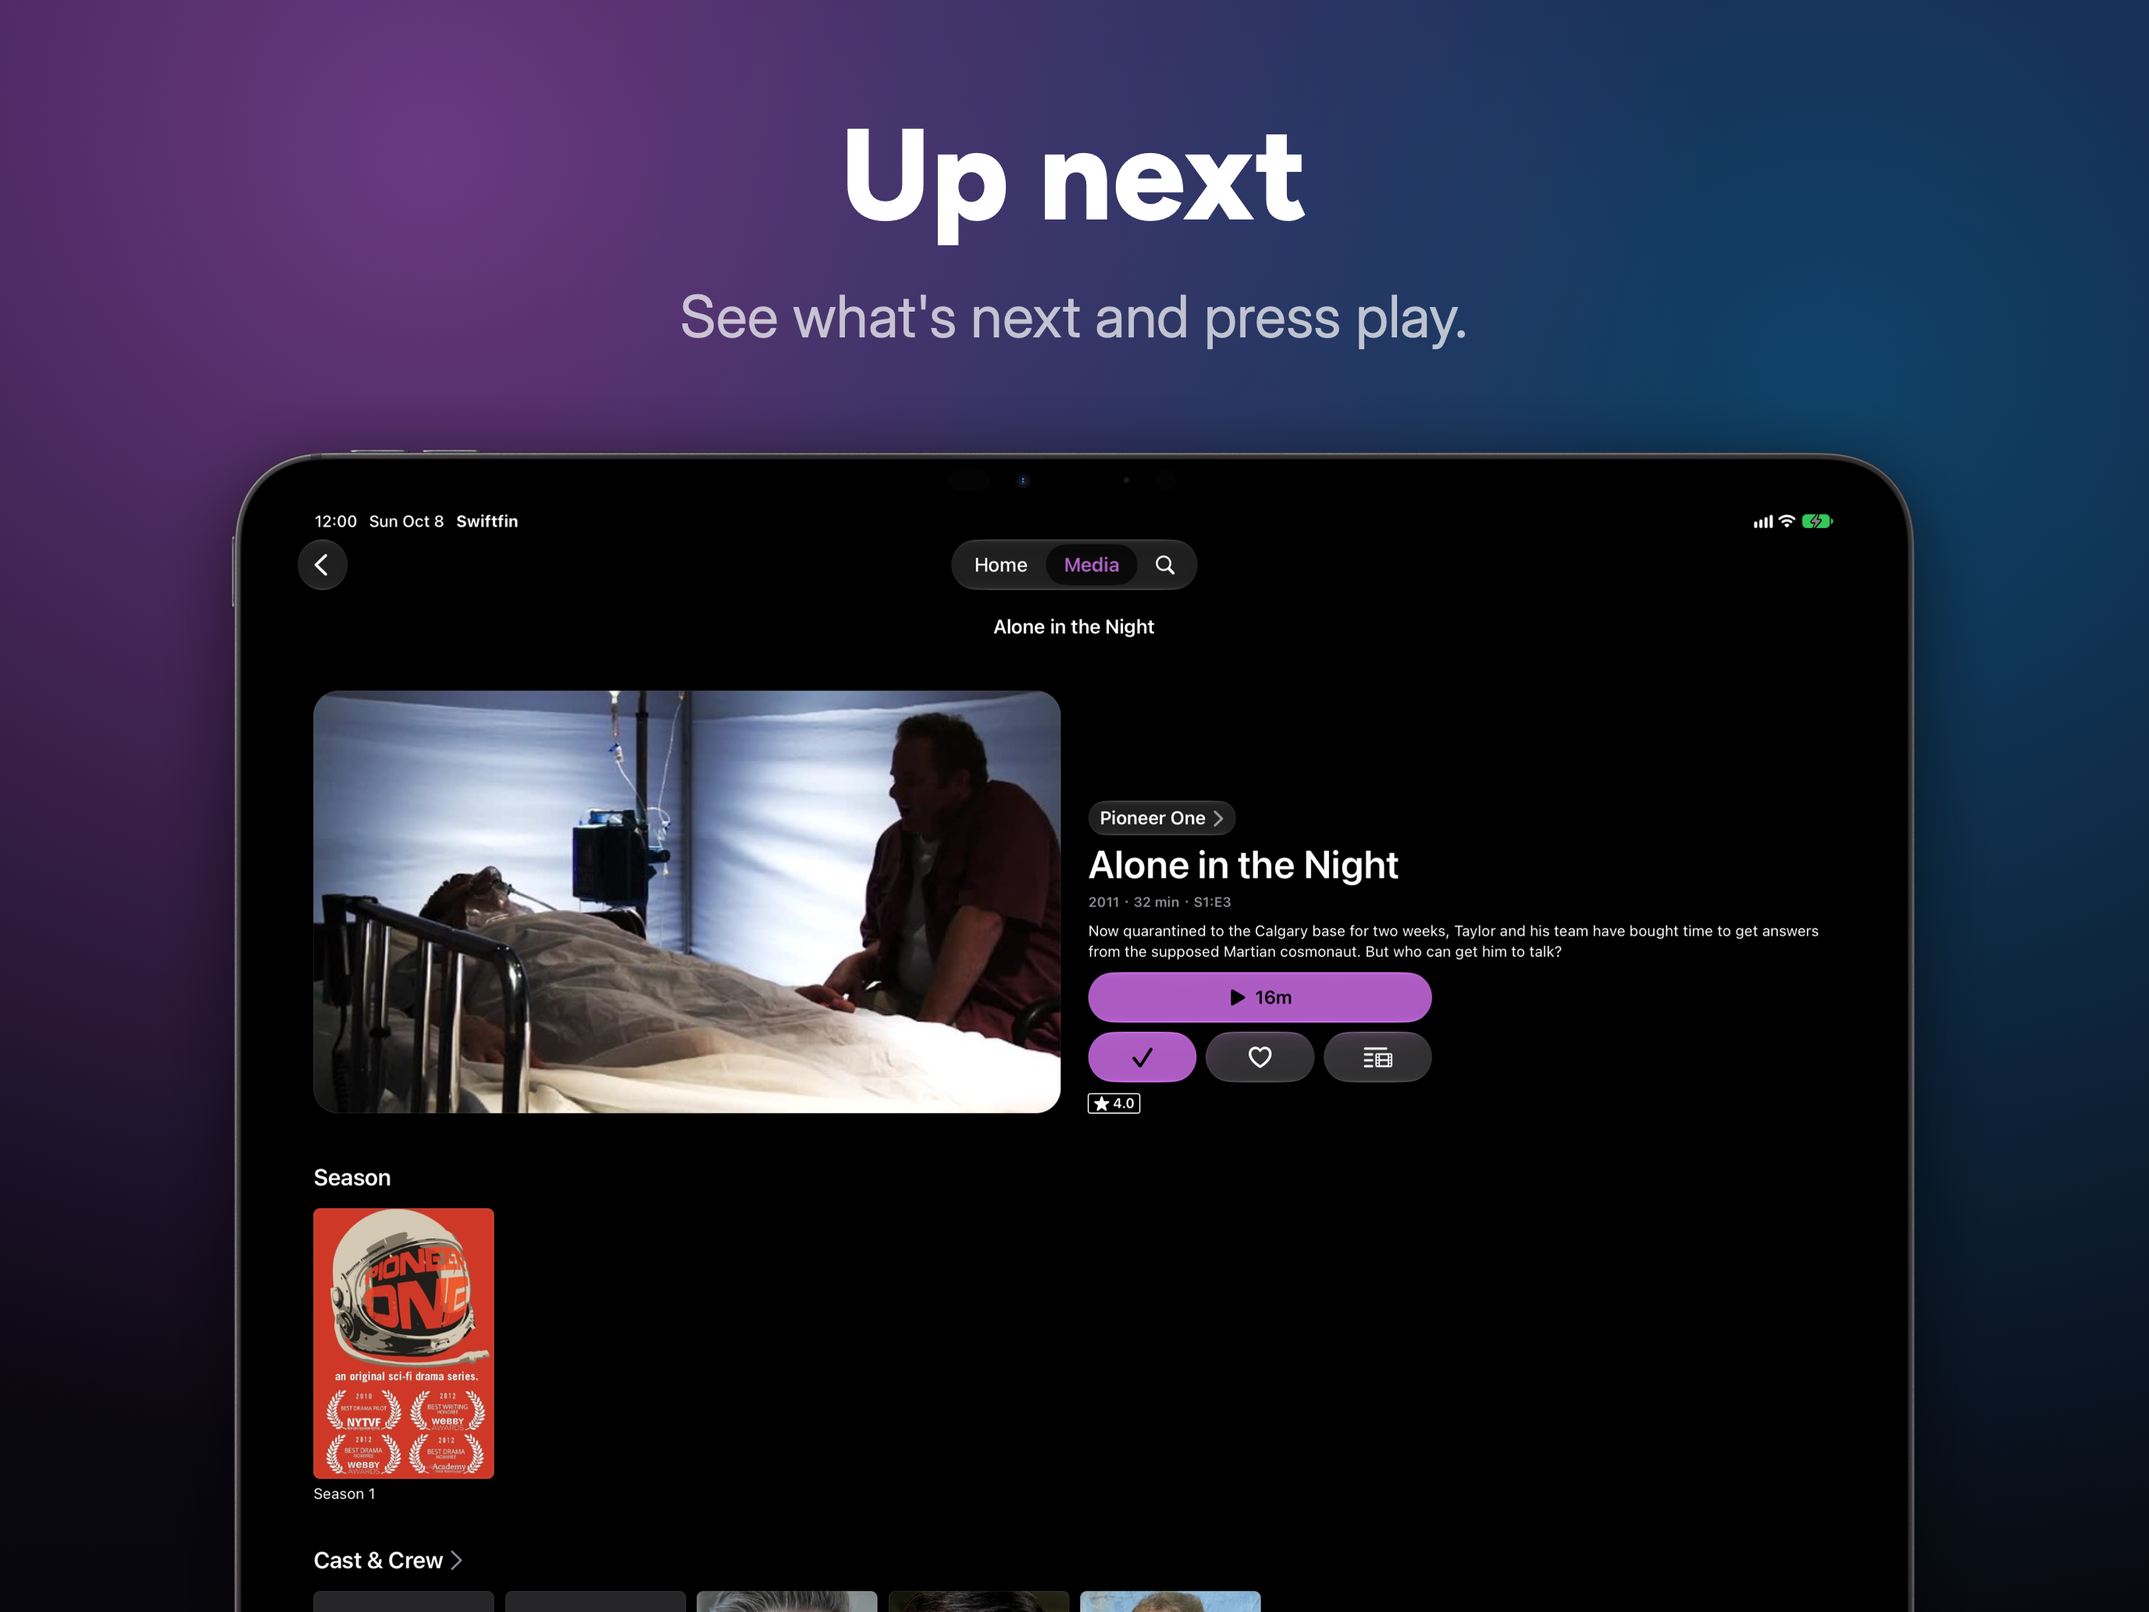
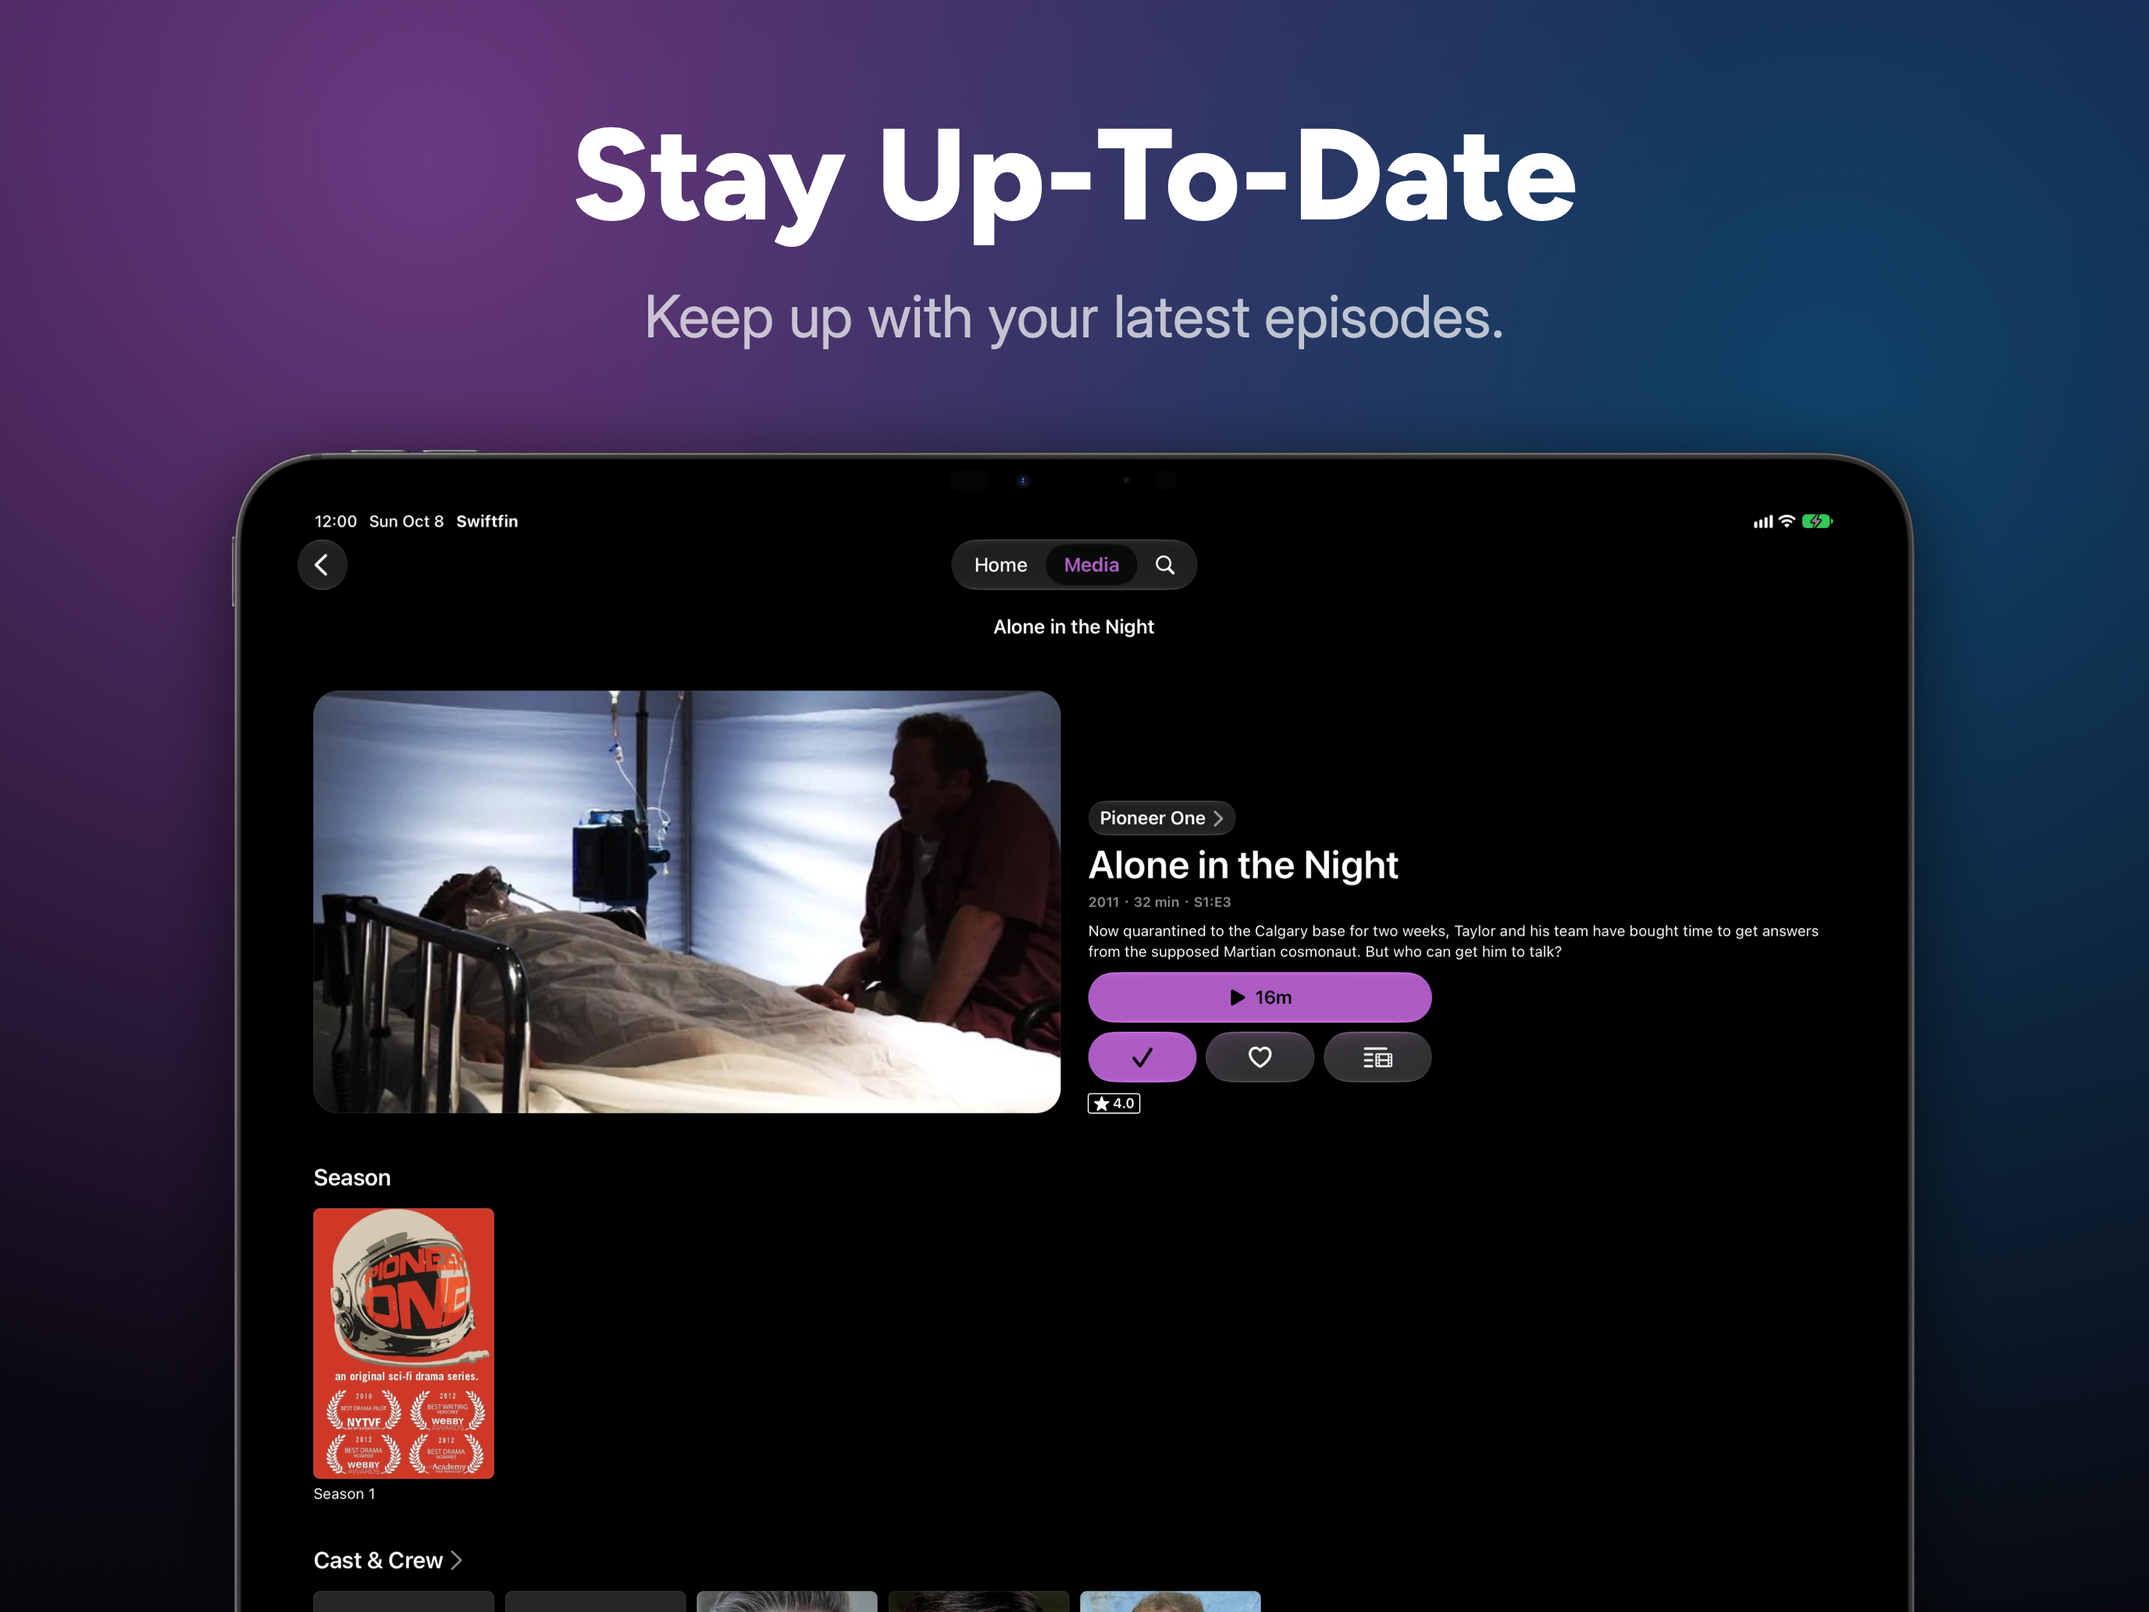
Cleanup

Changed region(s): [[0.25, 0.062, 0.75, 0.155], [0.2812, 0.186, 0.6875, 0.2171]]

diff --git a/Shared/Strings/Strings.swift b/Shared/Strings/Strings.swift
@@ -1568,8 +1568,8 @@ internal enum L10n {
   internal static let screenshot = L10n.tr("Localizable", "screenshot", fallback: "Screenshot")
   /// Stay up-to-date
   internal static let screenshotHeadlineEpisode = L10n.tr("Localizable", "screenshotHeadlineEpisode", fallback: "Stay up-to-date")
-  /// Prioritize your media
-  internal static let screenshotHeadlineHome = L10n.tr("Localizable", "screenshotHeadlineHome", fallback: "Prioritize your media")
+  /// Your server
+  internal static let screenshotHeadlineHome = L10n.tr("Localizable", "screenshotHeadlineHome", fallback: "Your server")
   /// Browse everything
   internal static let screenshotHeadlineLibrary = L10n.tr("Localizable", "screenshotHeadlineLibrary", fallback: "Browse everything")
   /// All your media
@@ -1580,8 +1580,8 @@ internal enum L10n {
   internal static let screenshotHeadlinePlayback = L10n.tr("Localizable", "screenshotHeadlinePlayback", fallback: "Native playback")
   /// Ready to binge
   internal static let screenshotHeadlineSeries = L10n.tr("Localizable", "screenshotHeadlineSeries", fallback: "Ready to binge")
-  /// For the household
-  internal static let screenshotHeadlineUserSelection = L10n.tr("Localizable", "screenshotHeadlineUserSelection", fallback: "For the household")
+  /// For everyone
+  internal static let screenshotHeadlineUserSelection = L10n.tr("Localizable", "screenshotHeadlineUserSelection", fallback: "For everyone")
   /// A screenshot or still frame captured directly from the item's video content. Deprecated and no longer actively used.
   internal static let screenshotImageDescription = L10n.tr("Localizable", "screenshotImageDescription", fallback: "A screenshot or still frame captured directly from the item\'s video content. Deprecated and no longer actively used.")
   /// Keep up with your latest episodes.
@@ -1594,14 +1594,14 @@ internal enum L10n {
   internal static let screenshotSubtitleMedia = L10n.tr("Localizable", "screenshotSubtitleMedia", fallback: "Movies, shows, live TV, and more from your server.")
   /// Cast, genres, and ratings at a glance.
   internal static let screenshotSubtitleMovie = L10n.tr("Localizable", "screenshotSubtitleMovie", fallback: "Cast, genres, and ratings at a glance.")
-  /// Playback built for %1$@
+  /// Beautiful playback built for %1$@.
   internal static func screenshotSubtitlePlayback(_ p1: Any) -> String {
-    return L10n.tr("Localizable", "screenshotSubtitlePlayback", String(describing: p1), fallback: "Playback built for %1$@")
+    return L10n.tr("Localizable", "screenshotSubtitlePlayback", String(describing: p1), fallback: "Beautiful playback built for %1$@.")
   }
   /// Jump to any season or episode.
   internal static let screenshotSubtitleSeries = L10n.tr("Localizable", "screenshotSubtitleSeries", fallback: "Jump to any season or episode.")
-  /// Every profile and server in one place.
-  internal static let screenshotSubtitleUserSelection = L10n.tr("Localizable", "screenshotSubtitleUserSelection", fallback: "Every profile and server in one place.")
+  /// Your users and servers all in one place.
+  internal static let screenshotSubtitleUserSelection = L10n.tr("Localizable", "screenshotSubtitleUserSelection", fallback: "Your users and servers all in one place.")
   /// Scrub
   internal static let scrub = L10n.tr("Localizable", "scrub", fallback: "Scrub")
   /// Search

diff --git a/Screenshots/Robots/ScreenshotRobot.swift b/Screenshots/Robots/ScreenshotRobot.swift
@@ -1,0 +1,86 @@
+//
+// Swiftfin is subject to the terms of the Mozilla Public
+// License, v2.0. If a copy of the MPL was not distributed with this
+// file, you can obtain one at https://mozilla.org/MPL/2.0/.
+//
+// Copyright (c) 2026 Jellyfin & Jellyfin Contributors
+//
+
+import XCTest
+
+final class ScreenshotRobot: Robot {
+
+    private let configuration: ScreenshotConfiguration
+
+    private var library: LibraryRobot!
+    private var item: ItemRobot!
+
+    private lazy var tabs = SelectUserRobot(app: app)
+        .connect()
+        .connect(to: configuration.server)
+        .addUser()
+        .signIn(username: configuration.username, password: configuration.password)
+
+    init(app: XCUIApplication, configuration: ScreenshotConfiguration) {
+        self.configuration = configuration
+        super.init(app: app)
+    }
+
+    func capture(_ screenshot: Screenshot) {
+        switch screenshot {
+        case .home:
+            tabs.home()
+                .screenshot(.home)
+
+        case .media:
+            library = tabs.media()
+                .screenshot(.media)
+
+        case .library:
+            library = library.library(configuration.movieLibrary)
+                .screenshot(.library)
+
+        case .movie:
+            item = library.item(configuration.movie)
+                .screenshot(.movie)
+
+        case .series:
+            item = item.goBack()
+                .goBack()
+                .library(configuration.showLibrary)
+                .item(configuration.series)
+                .screenshot(.series)
+
+        case .episode:
+            item = item.firstEpisode()
+                .screenshot(.episode)
+
+        case .playback:
+            setPhoneLandscape(true)
+
+            item.play()
+                .aspectFill()
+                .scrub(toProgress: 0.5) // don't screenshot title/vanity cards.
+                .showControls()
+                .screenshot(.playback, waitForIdle: false)
+
+            setPhoneLandscape(false)
+
+        case .userSelection:
+            app.terminate()
+            app.launch()
+
+            tabs.settings()
+                .switchUser()
+                .screenshot(.userSelection)
+        }
+    }
+
+    private func setPhoneLandscape(_ isLandscape: Bool) {
+        #if os(iOS)
+        if UIDevice.current.userInterfaceIdiom == .phone {
+            XCUIDevice.shared.orientation = isLandscape ? .landscapeLeft : .portrait
+        }
+        #endif
+    }
+}

diff --git a/Screenshots/ScreenshotTests.swift b/Screenshots/ScreenshotTests.swift
@@ -19,60 +19,16 @@ final class ScreenshotTests: XCTestCase {
         let app = XCUIApplication()
         setupSnapshot(app)
 
-        let configuration = ScreenshotConfiguration(launchArguments: app.launchArguments)
-
         #if os(iOS)
         XCUIDevice.shared.orientation = UIDevice.current.userInterfaceIdiom == .pad ? .landscapeLeft : .portrait
         #endif
 
         app.launch()
 
-        let tabs = SelectUserRobot(app: app)
-            .connect()
-            .connect(to: configuration.server)
-            .addUser()
-            .signIn(username: configuration.username, password: configuration.password)
+        let robot = ScreenshotRobot(app: app, configuration: ScreenshotConfiguration(launchArguments: app.launchArguments))
 
-        tabs.home()
-            .screenshot(.home)
-
-        let episodeItem = tabs.media()
-            .screenshot(.media)
-            .library(configuration.movieLibrary)
-            .screenshot(.library)
-            .item(configuration.movie)
-            .screenshot(.movie)
-            .goBack()
-            .goBack()
-            .library(configuration.showLibrary)
-            .item(configuration.series)
-            .screenshot(.series)
-            .firstEpisode()
-            .screenshot(.episode)
-
-        setPhoneLandscape(true)
-
-        episodeItem.play()
-            .scrub(toProgress: 0.5) // don't screenshot title/vanity cards.
-            .aspectFill()
-            .showControls()
-            .screenshot(.playback, waitForIdle: false)
-
-        setPhoneLandscape(false)
-        app.terminate()
-        app.launch()
-
-        tabs.settings()
-            .switchUser()
-            .screenshot(.userSelection)
-    }
-
-    @MainActor
-    private func setPhoneLandscape(_ isLandscape: Bool) {
-        #if os(iOS)
-        if UIDevice.current.userInterfaceIdiom == .phone {
-            XCUIDevice.shared.orientation = isLandscape ? .landscapeLeft : .portrait
+        for screenshot in Screenshot.allCases {
+            robot.capture(screenshot)
         }
-        #endif
     }
 }

diff --git a/Screenshots/Robots/VideoPlayerRobot.swift b/Screenshots/Robots/VideoPlayerRobot.swift
@@ -75,20 +75,24 @@ final class VideoPlayerRobot: Robot {
 
     #if os(tvOS)
     private func elapsedProgress() -> Double? {
-        guard remainingTime.exists else { return nil }
+        guard let root = try? app.snapshot() else { return nil }
 
-        let remaining = remainingTime
-        let elapsed = app.staticTexts
-            .allElementsBoundByIndex
-            .filter { abs($0.frame.midY - remaining.frame.midY) < 5 && $0.frame.maxX < remaining.frame.minX }
-            .min { $0.frame.minX < $1.frame.minX }
+        let texts = staticTexts(in: root)
 
-        guard let elapsed else { return nil }
+        guard let remaining = texts.first(where: { $0.label.hasPrefix("-") }),
+              let elapsed = texts
+                  .filter({ abs($0.frame.midY - remaining.frame.midY) < 5 && $0.frame.maxX < remaining.frame.minX })
+                  .min(by: { $0.frame.minX < $1.frame.minX })
+        else { return nil }
 
         let elapsedSeconds = seconds(elapsed.label)
         let totalSeconds = elapsedSeconds + seconds(remaining.label)
 
         return totalSeconds > 0 ? elapsedSeconds / totalSeconds : nil
+    }
+
+    private func staticTexts(in snapshot: XCUIElementSnapshot) -> [XCUIElementSnapshot] {
+        (snapshot.elementType == .staticText ? [snapshot] : []) + snapshot.children.flatMap(staticTexts)
     }
 
     private func seconds(_ timestamp: String) -> Double {

diff --git a/Screenshots/Support/Screenshot.swift b/Screenshots/Support/Screenshot.swift
@@ -8,7 +8,7 @@
 
 import XCTest
 
-enum Screenshot: String {
+enum Screenshot: String, CaseIterable {
 
     case home = "Home"
     case media = "Media"
@@ -20,7 +20,7 @@ enum Screenshot: String {
     case userSelection = "UserSelection"
 
     var headline: String {
-        switch self {
+        let headline = switch self {
         case .home:
             L10n.screenshotHeadlineHome
         case .media:
@@ -38,6 +38,8 @@ enum Screenshot: String {
         case .userSelection:
             L10n.screenshotHeadlineUserSelection
         }
+
+        return headline.localizedCapitalized
     }
 
     var subtitle: String {

diff --git a/Scripts/Screenshots/ProcessScreenshots.swift b/Scripts/Screenshots/ProcessScreenshots.swift
@@ -221,12 +221,12 @@ struct Layout {
     let deviceWidth: CGFloat
 
     static let portrait = Layout(
-        textTop: 0.05,
-        textBottom: 0.2,
+        textTop: 0.04,
+        textBottom: 0.17,
         textWidth: 0.86,
         headlineSize: 0.095,
         subtitleSize: 0.045,
-        deviceTop: 0.22,
+        deviceTop: 0.19,
         deviceWidth: 0.92
     )
 

diff --git a/Documentation/screenshots.md b/Documentation/screenshots.md
@@ -40,8 +40,8 @@ Screenshots are written to `Documentation/Screenshots/<Platform>/<Language>/`:
 
 ## Structure
 
-- `Screenshots/ScreenshotTests.swift`: the flow
-- `Screenshots/Support/Screenshot.swift`: each screenshot with its headline and subtitle
+- `Screenshots/Support/Screenshot.swift`: each screenshot, in capture order, with its headline and subtitle
+- `Screenshots/Robots/ScreenshotRobot.swift`: how to reach and capture each screenshot
 - `Screenshots/Robots`: one robot per screen, shared by iOS and tvOS
 - `Scripts/Screenshots/ProcessScreenshots.swift`: builds `Framed` and `Cards`
 - `Scripts/Screenshots/Frames`: device frames, named by screenshot size (`<width>x<height>-frame.png`, optional `-mask.png`)
@@ -50,5 +50,5 @@ Screenshots are written to `Documentation/Screenshots/<Platform>/<Language>/`:
 ## Adding a screenshot
 
 1. Add `screenshotHeadline<Name>` and `screenshotSubtitle<Name>` to `Translations/en.lproj/Localizable.strings`.
-2. Add a case to `Screenshot` and return those `L10n` strings from `headline` and `subtitle`.
-3. Navigate to the screen with the robots and call `.screenshot(.<name>)`.
+2. Add a case to `Screenshot`, in capture order, and return those `L10n` strings from `headline` and `subtitle`.
+3. Add the case to `ScreenshotRobot.capture(_:)`: navigate with the robots and call `.screenshot(.<name>)`.

diff --git a/README.md b/README.md
@@ -21,6 +21,23 @@
   <b>Swiftfin</b> is a modern video client for the <a href="https://github.com/jellyfin/jellyfin">Jellyfin</a> media server. Made using Swift to maximize direct play with the power of <b>VLC</b> and look <b>native</b> on all classes of Apple devices.
 </p>
 
+## 📸 Screenshots
+
+<p align="center">
+  <img width="32%" alt="Home on iOS" src="./Documentation/Screenshots/iOS/en-US/Framed/Home.png"/>
+  <img width="32%" alt="Library on iOS" src="./Documentation/Screenshots/iOS/en-US/Framed/Library.png"/>
+  <img width="32%" alt="Series on iOS" src="./Documentation/Screenshots/iOS/en-US/Framed/Series.png"/>
+</p>
+<p align="center">
+  <img width="97%" alt="Playback on iOS" src="./Documentation/Screenshots/iOS/en-US/Framed/Playback.png"/>
+</p>
+<p align="center">
+  <img width="48%" alt="Home on tvOS" src="./Documentation/Screenshots/tvOS/en-US/Raw/Home.png"/>
+  <img width="48%" alt="Library on tvOS" src="./Documentation/Screenshots/tvOS/en-US/Raw/Library.png"/>
+  <img width="48%" alt="Series on tvOS" src="./Documentation/Screenshots/tvOS/en-US/Raw/Series.png"/>
+  <img width="48%" alt="Playback on tvOS" src="./Documentation/Screenshots/tvOS/en-US/Raw/Playback.png"/>
+</p>
+
 ## ⚡ Download
 
 <a href="https://apps.apple.com/us/app/swiftfin/id1604098728">
